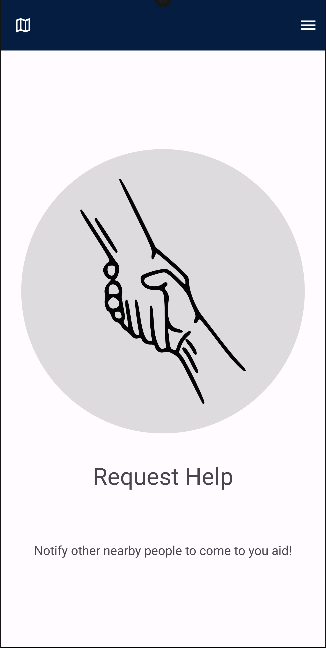
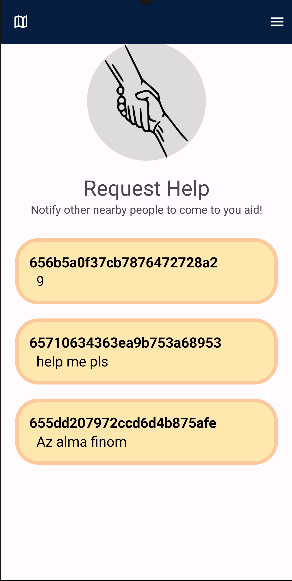
Readme edited

diff --git a/readme.md b/readme.md
@@ -39,7 +39,7 @@ Ha a képeket szeretnénk nagyobb méretben megnézni, akkor bármelyik fotóra 
 
 ![](assets/image_view.png)
 
-Ha valamelyik helyről meg szeretnénk nézi a mások által írt kommenteket, vagy mi magunk is szeretnénk megjegyzést hozzáfűzni, akkor a Comments gombra kell kattintanunk. Itt láthatjuk, hogy melyik felhasználó milyen megjegyzést írt, hanyasra értékelte a helyszínt.A New Comment gomb megnyomása után egy dialógusablakba írhatjuk be a saját véleményünk, értékelésünk. A Details gombra kattintva visszanavigálunk a hely részletes nézetére.
+Ha valamelyik helyről meg szeretnénk nézi a mások által írt kommenteket, vagy mi magunk is szeretnénk megjegyzést hozzáfűzni, akkor a Comments gombra kell kattintanunk. Itt láthatjuk, hogy melyik felhasználó milyen megjegyzést írt, hanyasra értékelte a helyszínt. A New Comment gomb megnyomása után egy dialógusablakba írhatjuk be a saját véleményünk, értékelésünk. A Details gombra kattintva visszanavigálunk a hely részletes nézetére.
 
 ![](assets/comments.png)
 
@@ -54,14 +54,17 @@ Alapértelmezetten 7,5 kilométeres körzetből ajánl az app helyeket, viszont 
 
 
 
-Ha a menüből a Track Others opciót választjuk, akkor megtekinthetjük a térképen az 5 kilométeres körzetünkben lévő felhasználók helyzetét. Ezen a térképen kékkel megjelennek a
+Ha a menüből a Track Others opciót választjuk, akkor megtekinthetjük a térképen az 5 kilométeres körzetünkben lévő felhasználók helyzetét. Alapértelmezetten a felhasználók markerei kékek, viszont ha valaki a Request Help megnyomásával segítséget kért, akkor ő ezen a térképen pirossal fog megjelenni.
 
 ![](assets/track_others.png)
 
-Az Upload New Place opciót választva feltölthetünk egy új helyről értékelést, képeket, leírást.
+Az Upload New Place opciót választva feltölthetünk egy új helyről értékelést, képeket, leírást. A térkép ikonra kattintva az applikáció behoz egy térképet, ahol ki tudjuk választani a feltölteni kívánt hely pontos helyzetét. Ha ezután megnyomjuk a képernyő alján található másolás gombot, akkor beilleszti a szélességi és hosszúsági koordinátákat a megfelelő szövegdobozba. Képet itt is tölthetünk fel a galéránkból, vagy készíthetjük őket egyenesen a kameránkkal.
 
 ![](assets/upload_new_place.png)
+![](assets/upload_new_place_map.png)
 
-A Request Help opciót választva pedig segítséget kérhetünk a közelünkben lévőktől, akik ekkor egy értesítést kapnak. A képernyő közepén lévő nagy gombot kell csupán megnyomni ehhez.
+A Request Help opciót választva pedig segítséget kérhetünk a közelünkben lévőktől. A képernyő tetején lévő gombot kell csupán megnyomni ehhez. Minden felhasználónál megjelenik ekkor ezen a képernyőn az általunk írt üzenet.
+Ha jeleztük, hogy segítséget szeretnénk kérni, akkor megjelenik egy "I got help" nevű gomb. Ha megoldódik a problémánk, akkor ezt megnyomva eltűnik az üzenetünk.
 
 ![](assets/request_help.png)
+![](assets/request_help_igothelp.png)
